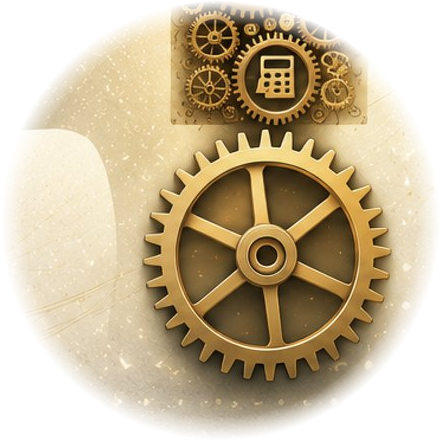
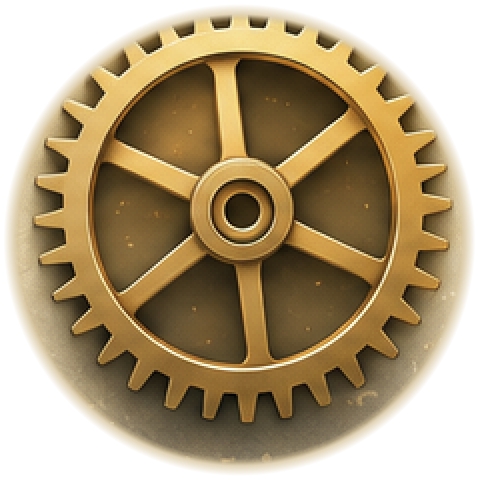
Header: Zahnradgetriebe korrekt positioniert, drei Räder mit verschiedenen Tempi

diff --git a/index.html b/index.html
@@ -61,7 +61,11 @@ body{
 @keyframes sweep{0%{transform:translateX(-75%)}42%{transform:translateX(75%)}100%{transform:translateX(75%)}}
 .tw{position:absolute;width:6px;height:6px;border-radius:50%;pointer-events:none;opacity:0;z-index:2;background:radial-gradient(circle,#fffdf2,#ffe9ad 45%,rgba(255,214,120,0) 72%);animation:twk 4.5s ease-in-out infinite}
 @keyframes twk{0%,100%{opacity:0;transform:scale(.3)}50%{opacity:.95;transform:scale(1.1)}}
-.rotor{position:absolute;left:73.28%;top:78.58%;width:24.44%;transform:translate(-50%,-50%);transform-origin:center;z-index:1;pointer-events:none;animation:rot 15s linear infinite}
+.rotor{position:absolute;transform:translate(-50%,-50%);transform-origin:center;z-index:1;pointer-events:none;animation:rot var(--dur,26s) linear infinite}
+.rotor.rev{animation-direction:reverse}
+.r1{left:75.789%;top:82.988%;width:15.779%;--dur:26s}
+.r2{left:86.028%;top:88.543%;width:7.733%;--dur:13.5s;filter:drop-shadow(4px 6px 7px rgba(90,70,40,.32))}
+.r3{left:91.266%;top:83.975%;width:4.908%;--dur:8.6s;filter:drop-shadow(3px 4px 5px rgba(90,70,40,.32))}
 @keyframes rot{from{transform:translate(-50%,-50%) rotate(0)}to{transform:translate(-50%,-50%) rotate(360deg)}}
 @media(prefers-reduced-motion:reduce){.tw,.rotor{animation:none}.shine{display:none}}
 
@@ -246,7 +250,9 @@ body{
       <img class="hero-img" src="abu_hero2.jpg?v=1" alt="Kopf aus goldenen Zahnrädern, die die ABU-Themen bilden">
       <div class="shine"></div>
       <div class="tw" style="left:60%;top:15%"></div><div class="tw" style="left:83%;top:24%;animation-delay:1.6s"></div><div class="tw" style="left:72%;top:38%;animation-delay:2.8s"></div><div class="tw" style="left:82%;top:55%;animation-delay:.9s"></div><div class="tw" style="left:70%;top:62%;animation-delay:3.3s"></div>
-      <img class="rotor" src="abu_gear_dot.png?v=1" alt="" aria-hidden="true">
+      <img class="rotor r1" src="abu_gear_dot.png?v=3" alt="" aria-hidden="true">
+      <img class="rotor r2 rev" src="abu_gear_solo.png?v=3" alt="" aria-hidden="true">
+      <img class="rotor r3" src="abu_gear_solo.png?v=3" alt="" aria-hidden="true">
     </div>
     <div class="hero-text">
       <div class="eyebrow">HKV Aarau · Allgemeinbildung</div>
